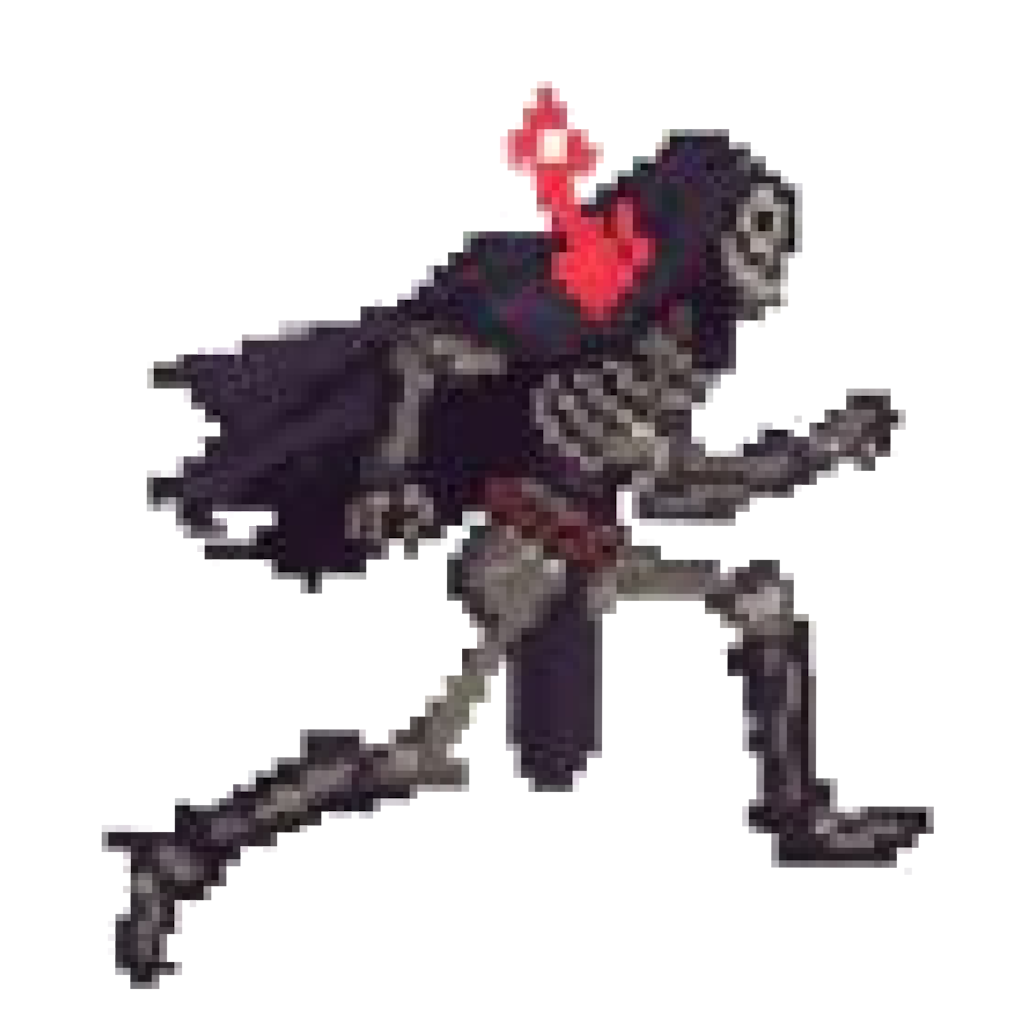
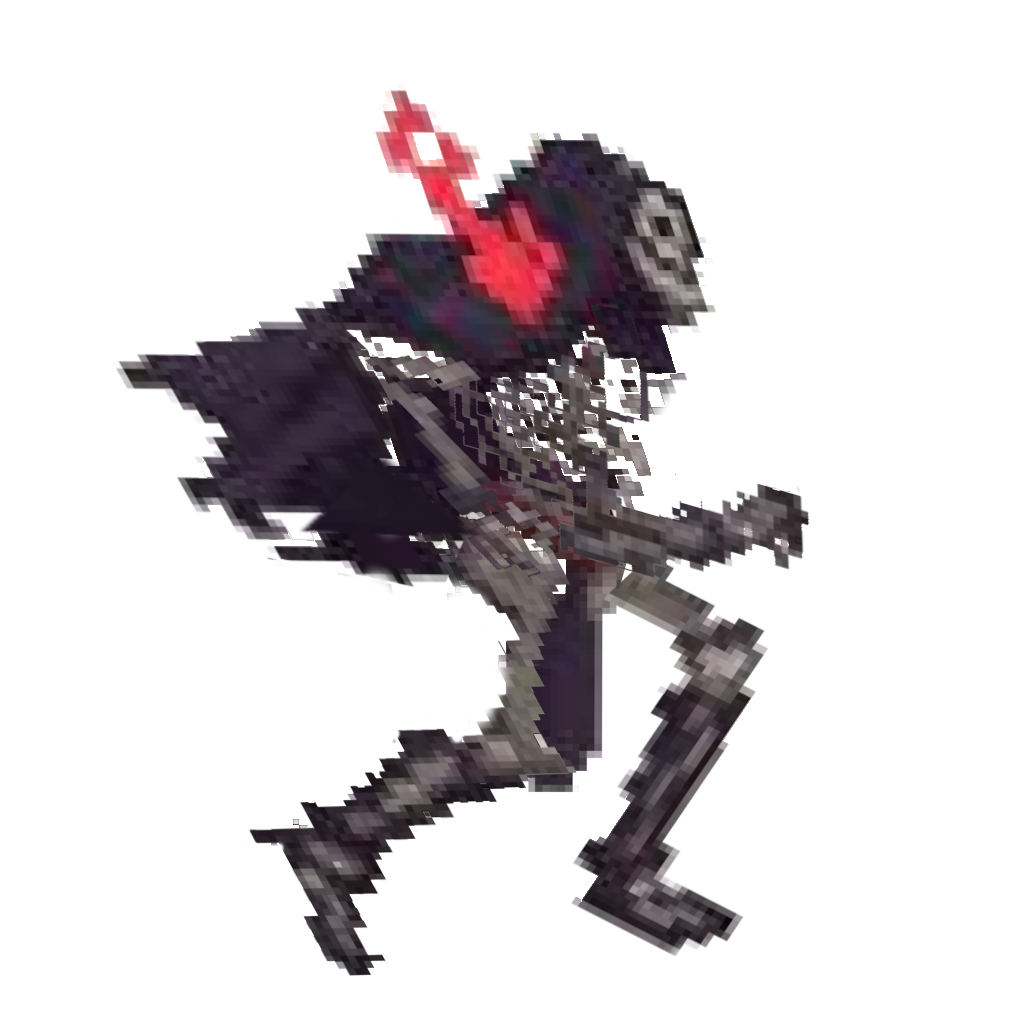
долел анимацию бега

Changed region(s): [[0.0938, 0.0625, 0.9375, 0.9688]]

diff --git a/hero_death_knight.py b/hero_death_knight.py
@@ -13,18 +13,23 @@ class DeathKnight:
         self.change_x = 0
         self.change_y = 0
 
-        self.anim_run = []
+        self.anim_run_right = []
+        self.anim_run_left = []
         self.current_texture_run = 0
         self.texture_change_time_run = 0
-        self.texture_change_delay_run = 0.1
+        self.texture_change_delay_run = 0.2
 
         self.run = False
 
         self.loading_texture()
-        self.anim_run.append(self.one_shot_run)
-        self.anim_run.append(self.two_shot_run)
-        self.anim_run.append(self.three_shot_run)
-        self.anim_run.append(self.four_shot_run)
+        self.anim_run_right.append(self.one_shot_run)
+        self.anim_run_right.append(self.two_shot_run)
+        self.anim_run_right.append(self.three_shot_run)
+        self.anim_run_right.append(self.four_shot_run)
+        self.anim_run_left.append(self.one_shot_run_left)
+        self.anim_run_left.append(self.two_shot_run_left)
+        self.anim_run_left.append(self.three_shot_run_left)
+        self.anim_run_left.append(self.four_shot_run_left)
 
         self.player_sprite = arcade.Sprite()
         self.player_sprite.texture = self.tex_default
@@ -43,32 +48,43 @@ class DeathKnight:
         self.player_sprite.center_x = self.center_x
         self.player_sprite.center_y = self.center_y
 
-        if self.change_x > 0 and self.run == False:
-            self.player_sprite.texture = self.tex_right
+        if self.change_x > 0:
             self.facing = "right"
-        elif self.change_x < 0 and self.run == False:
-            self.player_sprite.texture = self.tex_left
+        elif self.change_x < 0:
             self.facing = "left"
-        elif self.change_x == 0 and self.run == False:
-            self.player_sprite.texture = self.tex_default
+        elif self.change_x == 0:
             self.facing = "default"
+
+        if self.run:
+            self.update_animation(delta_time)
+        else:
+            if self.facing == "right":
+                self.player_sprite.texture = self.tex_right
+            elif self.facing == "left":
+                self.player_sprite.texture = self.tex_left
+            else:
+                self.player_sprite.texture = self.tex_default
 
         if self.run:
             self.update_animation(delta_time)
 
     def update_animation(self, delta_time: float = 1 / 60):
         if self.run:
-            self.texture_change_time_run += delta_time
-            if self.texture_change_time_run >= self.texture_change_delay_run:
-                self.texture_change_time_run = 0
-                self.current_texture_run = (self.current_texture_run + 1) % len(self.anim_run)
+            if self.facing == "right":
+                self.texture_change_time_run += delta_time
+                if self.texture_change_time_run >= self.texture_change_delay_run:
+                    self.texture_change_time_run = 0
+                    self.current_texture_run = (self.current_texture_run + 1) % len(self.anim_run_right)
+                    texture = self.anim_run_right[self.current_texture_run]
+                    self.player_sprite.texture = texture
+            elif self.facing == "left":
+                self.texture_change_time_run += delta_time
+                if self.texture_change_time_run >= self.texture_change_delay_run:
+                    self.texture_change_time_run = 0
+                    self.current_texture_run = (self.current_texture_run + 1) % len(self.anim_run_left)
+                    texture = self.anim_run_left[self.current_texture_run]
+                    self.player_sprite.texture = texture
 
-                texture = self.anim_run[self.current_texture_run]
-
-                if self.facing == "left":
-                    pass
-
-                self.player_sprite.texture = texture
 
     def loading_texture(self):
         self.tex_default = arcade.load_texture("models/hero/death_knight/main_form.png")
@@ -79,6 +95,10 @@ class DeathKnight:
         self.two_shot_run = arcade.load_texture("models/hero/death_knight/animations/run/2_faze_run.png")
         self.three_shot_run = arcade.load_texture("models/hero/death_knight/animations/run/3_faze_run.png")
         self.four_shot_run = arcade.load_texture("models/hero/death_knight/animations/run/4_faze_run.png")
+        self.one_shot_run_left  = self.one_shot_run.flip_left_right()
+        self.two_shot_run_left = self.two_shot_run.flip_left_right()
+        self.three_shot_run_left = self.three_shot_run.flip_left_right()
+        self.four_shot_run_left = self.four_shot_run.flip_left_right()
 
     def draw(self):
         self.player_sprite_list.draw()
